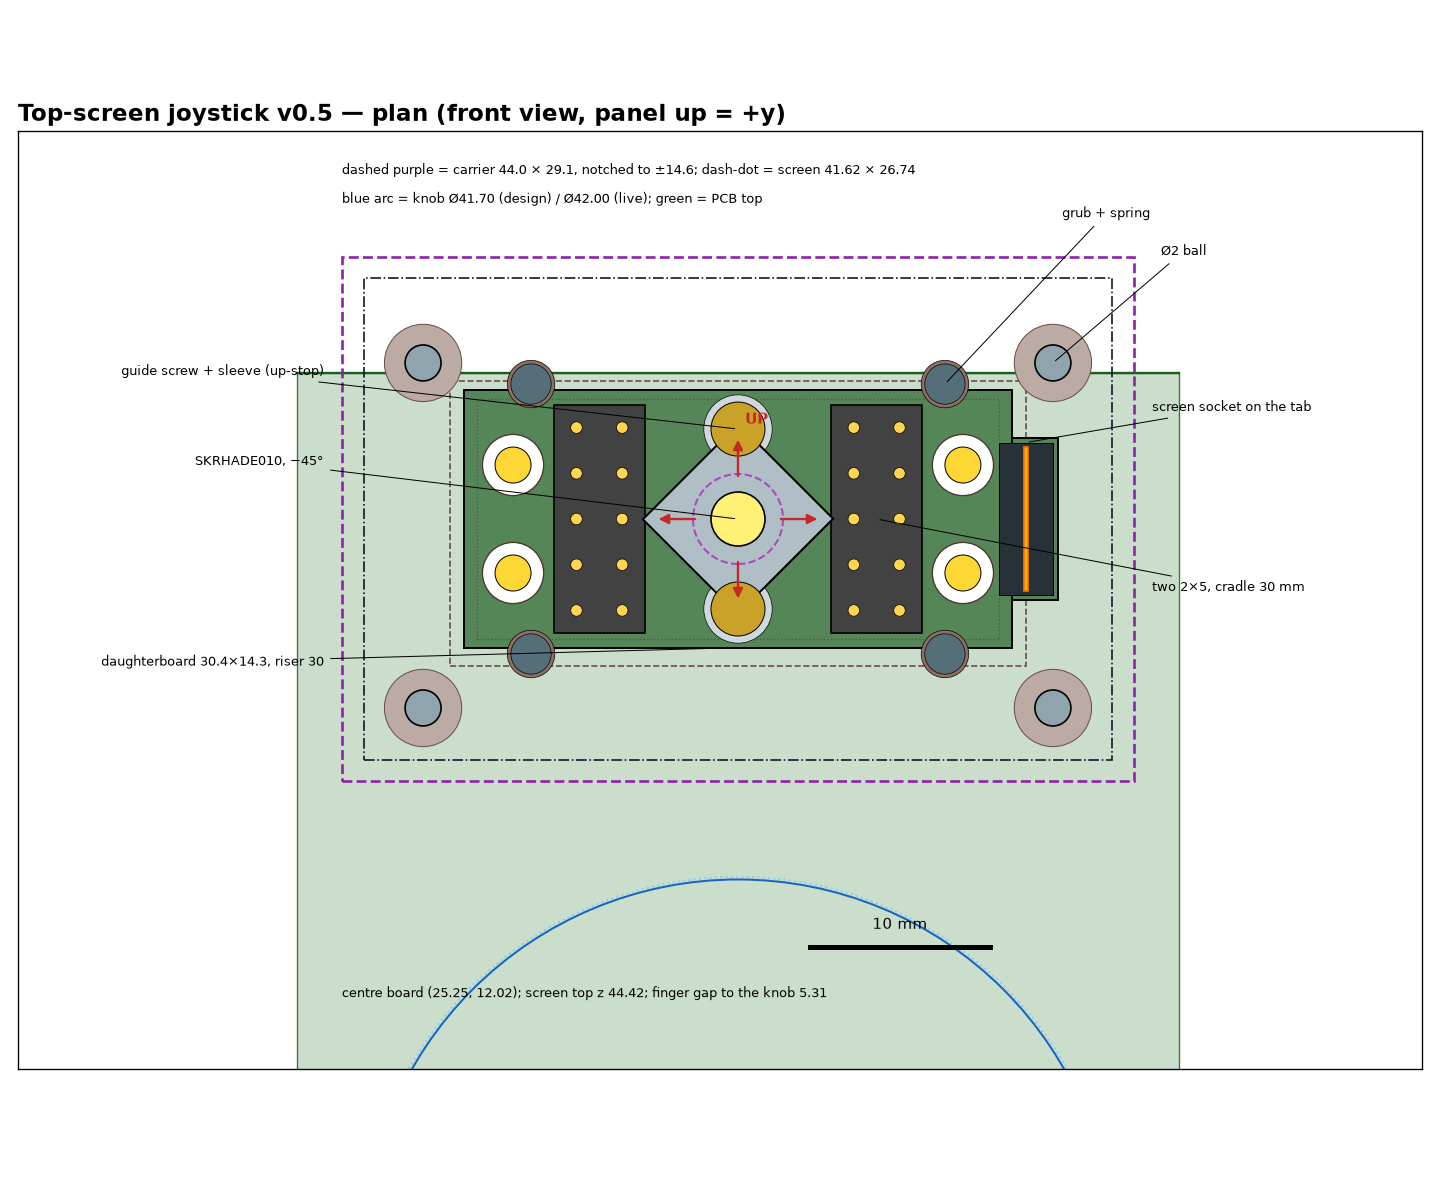
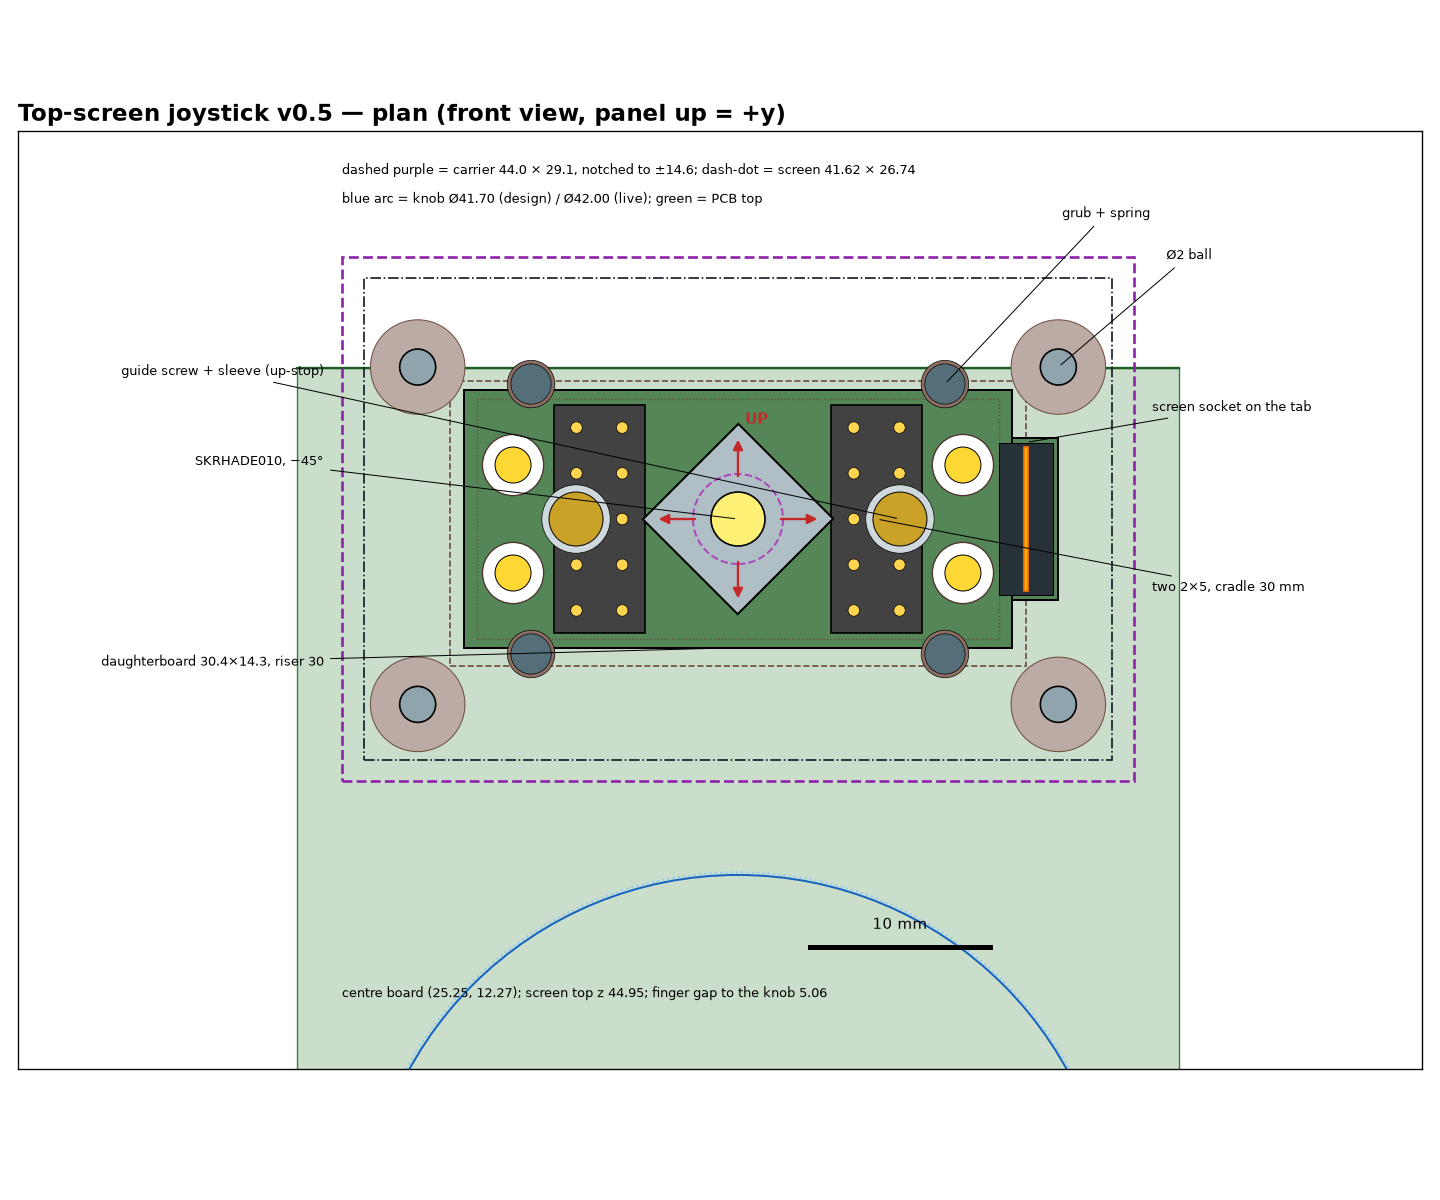
v0.20 final: option B ball cups, 0.9 N hold-downs; review fixes; docs and renders
- [Ed 13:08] option B: gentle ball cups (radius 2.5 x the ball's, 8.6 deg at the full slide, ~0.55 N spring-back),
  hold-down springs 0.9 N; balls at (±17.8, +8.45 / -10.3). Push to click 1.75 N nominal / 2.44 N worst; tipping
  safety at the worst-case click 1.32 up, 1.61 toward the knob, 2.78 left/right.
- Joystick v0.5 90/90, 0 clashes. Knob v0.20 180/180, 0 clashes (joystick vs knob/case/PCB: none).
- Docs: decisions "Review fixes and the ball seats", joystick v0.5 section rewritten, handover numbers; Risley motors
  noted as not modelled (last job, Ed).
- Section sheet and clean render for the final state.

Claude-Session: https://claude.ai/code/session_01WWsCM7QCNQUDgpRNvrXSbD

diff --git a/cad/joystick-param/jsparam/checks.py b/cad/joystick-param/jsparam/checks.py
@@ -181,6 +181,14 @@ def run(D, P):
         row("cradle ring glued inside the main-PCB outline", D["y_pcb"] - D["pcb_edge"] - D["cr_out_y1"], ">= 0", foot,
             f"ring ±{D['cr_out_x']:.2f} x {D['cr_out_y0']:.2f}..{D['cr_out_y1']:.2f}; PCB top edge local y {D['y_pcb']:.2f}. "
             f"The top towers start at z {C['tower_z0']:g}, above the case's top corner posts, and hang off the ring")
+        bt_ = min(math.hypot(abs(x) - D["board_x1"] if abs(x) > D["board_x1"] else 0.0,
+                             abs(y) - D["board_y1"] if abs(y) > D["board_y1"] else 0.0) - D["boss_r"] for x, y in D["balls"])
+        row("joystick board clear of the cradle towers", bt_, f">= {D['tol_mjf']:.2f}", bt_ >= D["tol_mjf"] - 1e-6,
+            f"towers r {D['boss_r']:.2f} at (±{D['bx']:.2f}, +{D['by_top']:.2f} / −{D['by_bot']:.2f}); board ±{D['board_x1']:.2f} × ±{D['board_y1']:.2f}")
+        cb_ = min(D["car_hw"] - (abs(x) + D["boss_r"]) for x, _ in D["balls"])
+        cby = min(D["car_hh"] - (abs(y) + D["boss_r"]) for _, y in D["balls"])
+        row("carrier cup bosses inside the carrier outline", min(cb_, cby), ">= 0", min(cb_, cby) >= -1e-6,
+            f"the bosses sit inside the faceplate hole with the carrier floor")
         pins = [P[n] for n in P if n.startswith("cradle locating dowel")]
         row("cradle locating dowels in the PCB", len(pins), "2", len(pins) == 2 and all(p_.distance_to(plate) <= 0.06 for p_ in pins),
             ", ".join(f"({x:.1f}, {y:.1f})" for x, y in D["cr_pins"]))
@@ -276,8 +284,8 @@ def run(D, P):
     bp = min(b.distance_to(plate) for b in balls)
     row("ball seated in the upper cup", bt, "<= 0.02", bt <= 0.02, f"four Ø{D['ball_d']:g}, cup Ø{2*D['cup_r']:.2f}")
     row("ball seated in the lower cup", bp, "<= 0.02", bp <= 0.02, "matching cup in the seat post")
-    row("cup radius / ball radius", D["cup_ratio"], "1.05-2.0", 1.05 <= D["cup_ratio"] <= 2.0,
-        f"Rc {D['cup_r']:.3f} mm, rim radius {D['cup_rim_r']:.3f} mm")
+    row("cup radius / ball radius", D["cup_ratio"], "1.05-3.0", 1.05 <= D["cup_ratio"] <= 3.0,
+        f"Rc {D['cup_r']:.3f} mm, rim radius {D['cup_rim_r']:.3f} mm" + (" [Ed 2 Nov: gentle cups, option B]" if D.get("cup_ratio_set") else ""))
     row("cup depth / ball diameter", D["cup_depth_frac"], "0.15-0.40", 0.15 <= D["cup_depth_frac"] <= 0.40,
         f"depth {D['cup_depth']:.3f} mm on Ø{D['ball_d']:g}")
     row("full slide stays inside the cups", D["cup_travel_margin"], f">= {D['cup_margin']:.2f}",

diff --git a/cad/joystick-param/jsparam/params.py b/cad/joystick-param/jsparam/params.py
@@ -117,8 +117,8 @@ P = dict(
     base="cradle",
     cradle=dict(part="joystick cradle, MJF PA-12, glued to the main PCB and to the joystick board", h=30.0, wall=1.5, wall_top=1.0,
                 land=0.7, tower_z0=22.5, pin=dict(part="ISO 8734 1.5x5 stainless dowel", d=1.5, len=5.0, in_pcb=1.6)),   # [A]
-    ball_x=17.5,            # [Ed 2 Nov 12:22] balls at the extreme corners: x as far out as the carrier allows
-    ball_y_bot=10.5,        # [Ed] knob-side row; the carrier outline (±13.02) is the limit. The top row is set by the rail strip
+    ball_x=17.8,            # [Ed 2 Nov 12:22] balls at the extreme corners: x as far out as the carrier allows (cup boss inside it)
+    ball_y_bot=10.3,        # [Ed] knob-side row; the carrier outline (±13.02) less the cup boss is the limit. The top row: rail strip
     # round female-female brass. Body is the riser. An ISO 4762 screw goes in each end.
     # Hex H3×M2×25 (STTZ2022) and the male-female 25 mm parts were out of stock on LCSC, 1 Nov 2026.
     # OD 3.2 is the usual knurled round M2 pillar; LCSC does not publish it. [A]
@@ -135,8 +135,10 @@ P = dict(
     spr_bore=3.4,           # [A]
     spr_boss=(2.6, 0.6),    # [A] hook boss under the carrier: Ø, height
     spr_xy=(12.5, 3.0),     # [A] v0.5 hold-down springs at (±x, ±y): inside the balls, outboard of the 2x5 headers
-    spr_f=0.65,             # [Ed 2 Nov 12:25] N each (v0.4 0.5). With the balls at the corners a sideways push on the glass top
-                            # then tips the carrier only above ~1.3x the switch's worst-case tilt force
+    spr_f=0.90,             # [Ed 2 Nov 13:08] N each (option B; v0.4 0.5). Sized so a sideways push on the glass top that clicks the
+                            # worst-case switch against the cup spring-back still has a 1.3 tipping safety
+    cup_ratio_set=2.5,      # [Ed 2 Nov 13:08] option B: gentle ball cups, radius 2.5 × the ball radius (v0.4 1.4: 35° at the full
+                            # slide, 1.8 N of push-back). 8.6° at the full slide; ~0.5 N spring-back to centre
     cs_xy_v05=(11.5, 7.5),  # [Ed 2 Nov 12:22] press springs inside the balls (v0.4 had them at the carrier corners)
     tip_margin=1.3,         # [A] tipping force / worst-case switch tilt force
     spr_ext=8.0,            # [A] extension at rest, mm. Free length is installed length minus this

diff --git a/docs/top-screen-joystick.md b/docs/top-screen-joystick.md
@@ -197,32 +197,32 @@ The riser is that 25 mm body. With the knob top still at z 52.50, the faceplate 
 The header is Samtec **TSW-103-17-T-S** (mating pin 15.74 mm, consigned). It engages the H11 socket by 4.28 mm and the tip stops at z 6.72. Checks 79/79, 0 clashes. Daughterboard outline is now 31.61 × 13.87. ERC 0, DRC 0. Section preview only.
 
 ## v0.5 build (2 Nov 2026)
-Model: `cad/joystick-param/` on `asm/v020-layout`. Images: `cad/assemblies/joystick-v0.5/joystick-v0.5.png`, `-plan.png`, `-clean.png`.
-**85/85 checks PASS, 0 clashes**; in the knob build (v0.20) the joystick has no clash with the knob, the case or the PCB.
-Decisions and their reasons: `docs/case-decisions-2026-11-02.md`, "2 Nov midday (v0.20)".
+Model: `cad/joystick-param/`. Images: `cad/assemblies/joystick-v0.5/joystick-v0.5.png`, `-plan.png`, `-clean.png`.
+**90/90 checks PASS, 0 clashes**; in the knob build (v0.20, 180/180) the joystick has no clash with the knob, the case or the PCB.
+Decisions and reasons: `docs/case-decisions-2026-11-02.md`, "2 Nov midday (v0.20)" and "Review fixes and the ball seats".
 
-- **Placement.** The case owns it now: the joystick sits as high as the top rail screws (ISO 7092 Ø6 washers) allow, and the knob
-  moved down instead. Local axis at panel-frame y 40.88. Finger gap to the knob glass 5.31 mm (was 0.95).
-- **Grip block.** The bezel (screen carrier, MJF PA-12) is a 5 mm tall block: 1.2 mm walls from 0.02 above the faceplate, a 1.6 mm
-  roof under the glass, the glass on top standing 0.6 proud. The faceplate opening tucks behind its edge (0.9 overlap).
-  Glass top z 44.42, 5.62 above the faceplate, 12.38 under the knob screen.
-- **Lift.** The switch, board and carrier are 2 mm higher (30 mm). The carrier floor (z 37.1–38.1) sits inside the faceplate hole.
-- **Guides / up-stop.** Two ISO 7984 M2×6 screws through brass sleeves (OD 3.0, 4.0 long) at (0, ±5). The sleeve slides in a reamed
-  Ø3.06 bore (2.78 long) in the carrier; the screw runs 2.0 mm into an M2×3 insert in the roof boss. The heads under the carrier
-  are the up-stop that v0.4 lacked.
-- **Base.** A printed cradle (MJF PA-12, 30 mm) glued to the main PCB on two Ø1.5 dowels replaces the four standoffs and the seat
-  plate. Ring ±16.0 × (−8.15 .. +7.65), inside the main-PCB top edge (local 8.12). The board (30.4 × 14.3) is glued on a 0.7 land.
-- **Balls at the corners.** Four Ø2 balls on cradle towers at (±17.5, +8.67) and (±17.5, −10.5). The top towers start at z 22.5,
-  above the case's top corner posts, and hang off the ring; the knob-side towers stand on the PCB and carry the dowels.
-- **Springs inside the balls.** Press springs (Lee CI 008B 01 M, grub + insert, 0.5 turn: 0.77 N preload, 2.12 N at the bottom) at
-  (±11.5, ±7.5). Hold-down springs 0.65 N at (±12.5, ±3.0); cross pins along x behind the PCB.
-- **Tipping.** A sideways push on the glass top tips the carrier only above 2.47 N (up), 2.99 N (toward the knob), 4.99 N
-  (left/right): ≥ 1.3 × the switch's worst tilt force 1.89 N.
-- **Board-to-board.** Two 2×5 long-post headers (long side along y) at x ±7.71 into 2×5 H11 sockets; header mates 5.04 mm.
-- **Screen flex.** AXE530127 socket on a +x tab of the board (centre x 16.0, long side along y); slots in the roof and the carrier
-  floor; fold pocket inside the +x wall at the glass edge.
-- **Skirt.** Two walls along the board's ±y edges, split to leave the grubs open and stopped short of the towers; still the
-  anti-rotation stop (3° hits).
+- **Placement.** The case owns it: as high as the top rail screws allow (ISO 7092 Ø6 washers, 0.2 float, MJF tolerance); the knob
+  moved down instead. Joystick axis at panel-frame y 40.63. **Finger gap to the knob glass 5.06 mm** (was 0.95).
+- **Grip block.** The bezel (MJF PA-12) is 5.0 mm tall with 1.2 walls, a 1.6 roof, the glass on top 0.6 proud. It floats 0.55 above
+  the flat faceplate (closes to 0.2 at full press); the faceplate opening tucks behind its edge (0.9 overlap). Glass top z 44.95:
+  6.15 above the faceplate, 11.85 under the knob screen.
+- **Lift.** Switch, board and carrier 2 mm higher (30 mm). The carrier floor (z 37.1–38.1, corners R1.2) is inside the faceplate hole.
+- **Guides / up-stop.** Two ISO 7984 M2×8 screws through brass sleeves (OD 3.0, 6.0 long) at (±9, 0); reamed Ø3.06 bores 4.25 long
+  in the carrier; 2.0 of thread in M2×3 roof inserts. The heads under the carrier are the up-stop.
+- **Press peg.** ISO 4026 M2×6 grub in a centre roof insert; set the 0.2 gap to the stem with a feeler before gluing the glass.
+- **Base.** Printed cradle (MJF PA-12, 30 mm) glued to the main PCB on two ISO 8734 1.5×5 dowels; ring ±16.0 × (−8.15 .. +7.65),
+  0.42 inside the main-PCB top edge. The board (30.4 × 14.3, plus the socket tab) is glued on a 0.7 land. No standoffs, no seat plate.
+- **Balls at the corners.** Four Ø2 balls in gentle cups (radius 2.5, 8.6° at the full slide) on cradle towers at (±17.8, +8.45) and
+  (±17.8, −10.3). The top towers start at z 22.5, above the case's top corner posts; the knob-side towers stand on the PCB.
+- **Springs inside the balls.** Press springs (Lee CI 008B 01 M; 0.5 turn: 0.77 N preload, 2.12 N at the bottom) at (±11.5, ±7.5).
+  Hold-down springs **0.9 N** at (±12.5, ±3.0); cross pins along x behind the PCB.
+- **Tipping.** Push to click 1.75 N nominal / 2.44 N worst (switch + 0.55 N cup spring-back). Safety at the worst-case click: 1.32 up,
+  1.61 toward the knob, 2.78 left/right (≥ 1.3).
+- **Board-to-board.** Two 2×5 long-post headers (long side along y) at x ±7.71 into 2×5 H11 sockets; mates 5.04.
+- **Screen flex.** AXE530127 socket on a +x tab (centre x 16.0, long side along y); slots in the roof and carrier floor; fold pocket
+  inside the +x wall at the glass edge.
+- **Skirt.** Two walls along the board's ±y edges, split to leave the grubs open and short of the towers; the anti-rotation stop.
 - **Rail strip.** Nothing behind the panel reaches into the outer 10 mm (0.4 air).
-- Open: flex tail length [C]; the fold pocket leaves 0.6 of the +x bezel wall [C]; parts to pick (headers, sockets, screws, tube,
-  0.65 N springs, dowels); the daughterboard KiCad (`make_project.py` from `geom.json`) is not regenerated yet.
+- Open: flex tail length [C]; the fold pocket leaves 0.6 of the +x wall (MJF minimum 1.0) [C]; parts to pick (2×5 header code, 2×5
+  sockets, M2×8 low-head, M2×6 grub, inserts, brass tube 3.0/2.1, 0.9 N Ø2 extension springs, dowels, epoxy); the daughterboard
+  KiCad generator (`make_project.py`) does not read the new `geom.json` keys yet (rows, axis, hdr_pins, tab).

diff --git a/docs/case-decisions-2026-11-02.md b/docs/case-decisions-2026-11-02.md
@@ -151,7 +151,7 @@ Status: sketched only (schematic from the case numbers). Nothing has been checke
     the corner screws come in from the back. OLED to post 0.31.
   - **Joystick as high as the top rail screws allow** (case `joy_rule="rail"`): bezel at full slide clears the washer keep-out by
     one SLA tolerance. It sits 0.84 lower on the panel than in v0.19b.
-  - Finger gap (knob glass to the bezel, plan, at rest) **0.95 → 5.31 mm** (rule ≥ 5.0).
+  - Finger gap (knob glass to the bezel, plan, at rest) **0.95 → 5.06 mm** (rule ≥ 5.0; 5.31 before the washer float, below).
   - Accepted costs: about 3.5 mm more of the clear OLED behind the jack nuts; the board strip below window D (14-way and power plugs)
     is about 6 mm [C: fit the plugs in KiCad]; windows C and E shrank to 11.6 mm² (the bigger-windows job is next anyway).
 - [Ed 11:52] **Rail screw washers**: ISO 7092 M3 small-series nylon, Ø6 × 0.5, under an ISO 7045 M3 pan head. Keep-out Ø6
@@ -162,18 +162,18 @@ Status: sketched only (schematic from the case numbers). Nothing has been checke
 ### Joystick grip block (joystick v0.5)
 - [Ed 11:43–11:46] The bezel becomes a **grip block at least 5 mm tall** with the glass on top; the faceplate opening tucks in
   behind its edge (0.9 overlap, as before). Replaces the 1.5 mm bezel cap. Glass top 5.62 above the faceplate, **12.38 below the
-  knob screen** (was 16.2). Inside, the stack stays; the bezel grows upward.
+  knob screen** (was 16.2; 11.85 after the review fix below). Inside, the stack stays; the bezel grows upward.
 - [Ed 11:52] **Lift the switch 2 mm** (30 mm riser). The carrier rises into the faceplate hole.
-- [Ed 11:52] **Guide pins**: two ISO 7984 M2×6 low-head screws through brass tube sleeves (OD 3.0 / ID 2.1, cut to 4.0) tie the
+- [Ed 11:52] **Guide pins** (positions and length superseded in "Review fixes" below): two ISO 7984 M2×6 low-head screws through brass tube sleeves (OD 3.0 / ID 2.1, cut to 4.0) tie the
   bezel to the carrier at (0, ±5). The sleeve slides in a reamed Ø3.06 bore in a carrier boss; the screw runs into an M2 heat-set
   insert in the bezel roof. The **heads under the carrier bosses are the up-stop** (v0.4 had none: the springs pushed the bezel off).
 - [Ed 12:17–12:25] **Printed cradle instead of standoffs** (MJF PA-12, 30 mm), glued to the main PCB and located by two ISO 8734
   1.5×5 dowels; the joystick board is glued on its rim (0.7 land). The seat plate is gone.
-- [Ed 12:22] **Balls at the extreme corners**, on cradle towers: (±17.5, +8.67 / −10.5) local. The top row is set by the rail strip
+- [Ed 12:22] **Balls at the extreme corners**, on cradle towers: (±17.5, +8.67 / −10.5) local (final (±17.8, +8.45 / −10.3), below). The top row is set by the rail strip
   (seats are behind the panel); the knob-side row by the carrier outline. v0.4 had them on the small board at (±9.5, ±4.1).
 - [Ed 12:22] **Press springs inside the balls**, at (±11.5, ±7.5) (v0.4 had them at the carrier corners). Grubs still reached from
   underneath on the carrier-and-bezel sub-assembly; the skirt walls are split to leave them open.
-- [Ed 12:25] **Hold-down springs 0.65 N each** (was 0.5), inside the balls at (±12.5, ±3.0). A sideways push on the glass top then
+- [Ed 12:25] (superseded at 13:08 by option B, 0.9 N, below) **Hold-down springs 0.65 N each** (was 0.5), inside the balls at (±12.5, ±3.0). A sideways push on the glass top then
   tips the carrier only above 2.47 N up the panel, 2.99 N toward the knob, 4.99 N left/right: at least 1.3 × the switch's worst
   tilt force (1.2 + 0.69 N). With 0.5 N and the v0.4 ball spacing it tipped at about 1.0 N, before the switch clicked.
 - [Ed] **Two 2×5 board-to-board headers** (Samtec TSW-105 long post, ~21.5 mm, code to pick) into 2×5 H11 sockets on the main PCB:
@@ -194,3 +194,20 @@ Status: sketched only (schematic from the case numbers). Nothing has been checke
 - [C] Parts: 2×5 long-post header code and 2×5 H11 socket; ISO 7984 M2×6; brass tube 3.0/2.1; 0.65 N extension spring (Ø2, ~32 mm free);
   cradle glue (epoxy) and the dowel NPTHs in the main-PCB KiCad (geom.json `main_pcb_holes`).
 - [C] KiCad: the board under the knob shifted 5.2 mm against the case outline (regeneration was pending anyway).
+
+### Review fixes and the ball seats (2 Nov, 13:08)
+A fresh-eyes review of v0.20 found real faults; all fixed:
+- **Centre press was blocked** (old fault): the case face never had the rebate the joystick model assumed. The face stays one flat
+  plane; the grip block floats **0.55** above it (press 0.35 + 0.2) and closes to 0.2 at full press. Glass top now 6.15 above the
+  faceplate, **11.85 under the knob screen**.
+- **Press peg adjustable**: an ISO 4026 M2×6 grub in a centre roof insert, set to the 0.2 press gap with a feeler before the glass
+  goes on (2.35 of thread, −0.35/+0.45 of adjustment). Takes out the printed-part and glue stack.
+- **Guides on the long axis**, (±9, 0): ISO 7984 **M2×8**, sleeves 6.0 long, reamed Ø3.06 bores 4.25 long. Off-centre presses slide.
+- **Carrier floor corners R1.2**, like the faceplate opening, so a diagonal slide does not catch.
+- **Rail washers**: 0.2 of screw/washer float and the MJF bezel tolerance added; the joystick sits 0.25 lower. Finger gap **5.06**.
+- **Tipping now counts the ball cups**: at the full 0.45 slide the v0.4 cups (radius 1.4 × the ball's) pushed back 1.8 N, so the
+  carrier tipped before the switch clicked whatever the springs.
+- [Ed 13:08] **Option B: gentle ball cups**, radius 2.5 × the ball's (8.6° at the full slide, ~0.55 N spring-back), and **hold-down
+  springs 0.9 N** each (replaces the 0.65 above). Push to click 1.75 N nominal, 2.44 N worst. Tipping safety at the worst-case click:
+  1.32 up the panel, 1.61 toward the knob, 2.78 left/right (rule ≥ 1.3). Balls at (±17.8, +8.45 / −10.3).
+- No silent fallbacks: the joystick model now stops if the case values are missing; a failed rail-strip intersection fails.

diff --git a/docs/handover-2026-11-02.md b/docs/handover-2026-11-02.md
@@ -1,16 +1,16 @@
 # Handover, 2 Nov 2026 (v0.20 update at the top; the v0.19b handover follows)
 
 ## Update, 2 Nov midday: v0.20 on `asm/v020-layout`
-Read `docs/case-decisions-2026-11-02.md`, section "2 Nov midday (v0.20)", for every decision and its reason, and
-`docs/top-screen-joystick.md`, "v0.5 build". Branch `asm/v020-layout` (from param-dev c5be74d); merge into param-dev after Danny's OK.
+Read `docs/case-decisions-2026-11-02.md`, sections "2 Nov midday (v0.20)" and "Review fixes and the ball seats", and
+`docs/top-screen-joystick.md`, "v0.5 build". Built on `asm/v020-layout` (from param-dev c5be74d) and merged into param-dev.
 
-**State:** knob v0.20 **179/179 checks, 0 clashes** (joystick vs knob/case/PCB: none). Joystick v0.5 **85/85, 0 clashes**.
+**State:** knob v0.20 **180/180 checks, 0 clashes** (joystick vs knob/case/PCB: none). Joystick v0.5 **90/90, 0 clashes**.
 Outputs: `cad/assemblies/knob-stack-v0.20/` (check.json, section sheet, clean render), `cad/assemblies/joystick-v0.5/`.
 
-**What changed:** knob 5.2 lower on the panel, joystick at the rail rule (finger gap 0.95 → 5.31); clear OLED 3.8 lower; bottom
-corner posts in the bottom wall; top rail holes cut (Ø6 nylon washers); joystick = 5 mm grip block, 30 mm printed cradle, balls
-at the corners, springs inside, 0.65 N hold-downs, guide screws (up-stop), 2×5 headers, flex socket on a board tab; back cover
-ASA-CF. The handover's v0.19b item 1 (joystick vs rail) and item 2 (joystick flex) are done.
+**What changed:** knob 5.2 lower on the panel, joystick at the rail rule (finger gap 0.95 → 5.06); clear OLED 3.8 lower; bottom
+corner posts in the bottom wall; top rail holes cut (Ø6 nylon washers); joystick = 5 mm grip block floating 0.55 over the flat
+face, 30 mm printed cradle, balls at the corners in gentle cups, springs inside, 0.9 N hold-downs, guide screws (up-stop) at (±9, 0),
+adjustable M2 grub press peg, 2×5 headers, flex socket on a board tab; back cover ASA-CF. Fresh-eyes review done; its fixes are in. The handover's v0.19b item 1 (joystick vs rail) and item 2 (joystick flex) are done.
 
 **Open items now, in order (Danny's list from 2 Nov):**
 1. **Control-dial arm**: single spring-ball detent out near the end of the arm (on the arc); three ball tracks with alternating
@@ -22,7 +22,8 @@ ASA-CF. The handover's v0.19b item 1 (joystick vs rail) and item 2 (joystick fle
    screws now); 2×5 sockets at x ±7.71 local; the 14-way and power plugs in the ~6 mm strip below window D. The joystick
    daughterboard KiCad (`make_project.py`) also needs regenerating (2×5 headers, socket tab, no standoffs).
 4. **Glass tube quote** (v0.19b item 5).
-5. **Risley placement study** (v0.19b item 7).
+5. **Risley placement study** (v0.19b item 7). The two prism motors are not in the model yet (optics is off; only the laser
+   body and the wedges exist as placeholders, and base_drive has `saddle_later` hooks).
 - New checks to close [C]: DO0164 flex tail length to the tab socket; the bezel's +x wall is 0.6 at the flex fold pocket (MJF
   min 1.0: ask PCBWay or print the bezel in SLA); parts to pick (2×5 long-post header code, 2×5 H11 socket, ISO 7984 M2×6, brass
   tube 3.0/2.1, 0.65 N Ø2 extension spring ~32 mm free, ISO 8734 1.5×5 dowels, epoxy for the cradle); ASA-CF conductivity on a
